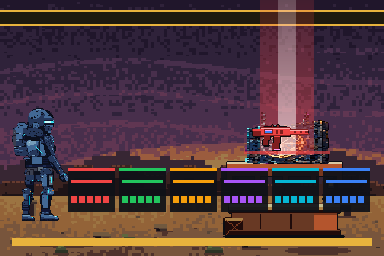
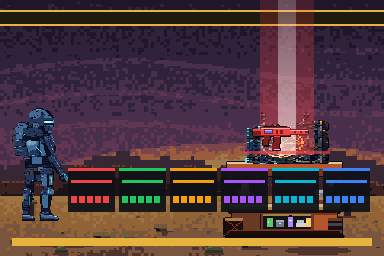
Vendor stall re-authored STOCKED (owner ruling, 2026-11-08)
The landed authored stall shipped an empty counter; the owner
ruled it redone with goods on it. The painting's content —
hanging glowing wares, piled stock — is translated into the
authored frame: a hanging amber bottle, counter-end stacks on
both flanks, a stocked display shelf across the counter front,
a barrel at the right base. Same 104x68 canvas, same palette,
pxl lint 0.

The seat record is unchanged: the listed item's standing
volume (counter center clear zone) stays prop-free and every
good sits outside it — flanks, front shelf below the zone,
base. Manifest anchors recomputed from the new alpha mask
with pixel-key.py's own formulas; rep-desk goldens re-pinned
with measured confinement to the stall's box (1.32%/1.30%).

Stall 409 B -> 626 B; PR payload revised to -61,091 B,
manifest-sum 6,721,706 B, ceiling pin unmoved. DESIGN S10 and
the Changelog stall clause carry the amendment.

Changed region(s): [[0.6875, 0.8125, 0.8125, 0.9062], [0.8438, 0.8438, 0.9062, 0.9062], [0.8125, 0.7188, 0.8438, 0.8125]]

diff --git a/wiki/Changelog.md b/wiki/Changelog.md
@@ -16,7 +16,7 @@ Per-release notes for CyberCache, newest first. Entries are written by hand in t
 
 - **The workshop's rooms are real places now** — the bench scene in the Workshop and the repair and shield-tech bays on the Market boards no longer stand in front of a painted backdrop: each stands in its actual area, with that area's own weather and life moving behind the work — furnace smoke and embers at the BlastForge bench, dust and signal lights in the ThrowTech bays. Same benches, same work — the rooms finally match the world outside.
 - **Your hunter minds his own stall now** — while one of your market listings runs, the Home stage shows the hunter at his vendor stall tending it — weapon slung, hands on the goods — instead of standing guard over it with his rifle up.
-- **The workplaces are dressed properly now** — the gear your work stands among has been redrawn in the same pixel craft as everything else: the salvage crusher is a real jaw crusher with the work sparks landing in its mouth, the repair bay's lift is a lift — your vehicle sits up on its deck instead of floating beside it — the shield-tech rig's ring actually holds the shield being calibrated at its center, and the vendor stall is a stall you can read at a glance, canopy, counter, and all. Same rooms, same jobs — the furniture finally matches the world.
+- **The workplaces are dressed properly now** — the gear your work stands among has been redrawn in the same pixel craft as everything else: the salvage crusher is a real jaw crusher with the work sparks landing in its mouth, the repair bay's lift is a lift — your vehicle sits up on its deck instead of floating beside it — the shield-tech rig's ring actually holds the shield being calibrated at its center, and the vendor stall is a stall you can read at a glance — canopy, counter, and goods on display: jars and wares on its front shelf, stock stacked at both ends. Same rooms, same jobs — the furniture finally matches the world.
 
 ## 2026-11-07 — The craft standard gets a gate
 

diff --git a/DESIGN.md b/DESIGN.md
@@ -2004,8 +2004,17 @@ everything still missing that still had a living seat.
 - **The stall verdict was earned, not assumed.** The evidence
   pass's side-by-side and this slice's live captures agree: the
   retired painting read as a dark glitter mass at stage size,
-  the authored stall reads as a stall — canopy, open counter,
+  the authored stall reads as a stall — canopy, counter,
   scale, crate — in the vista's own rust register. It lands.
+  **Amendment (owner ruling, 2026-11-08):** the landed counter
+  was empty, and the owner ruled it re-authored STOCKED — the
+  painting's content (hanging wares, piled stock) translated
+  into the authored frame: a hanging bottle and counter-end
+  stacks on both flanks, a stocked display shelf across the
+  counter front, a barrel at the base. The seat record is
+  unchanged — the listed item's standing volume (counter
+  center) stays prop-free; the goods dress around it, and the
+  hunter's reach at the stall's left edge stays clear.
 - **Manifest truth + payload.** The seven sprites' manifest
   entries carry their authored dimensions and anchors recomputed
   from the new alpha masks by `pixel-key.py`'s own formulas.
